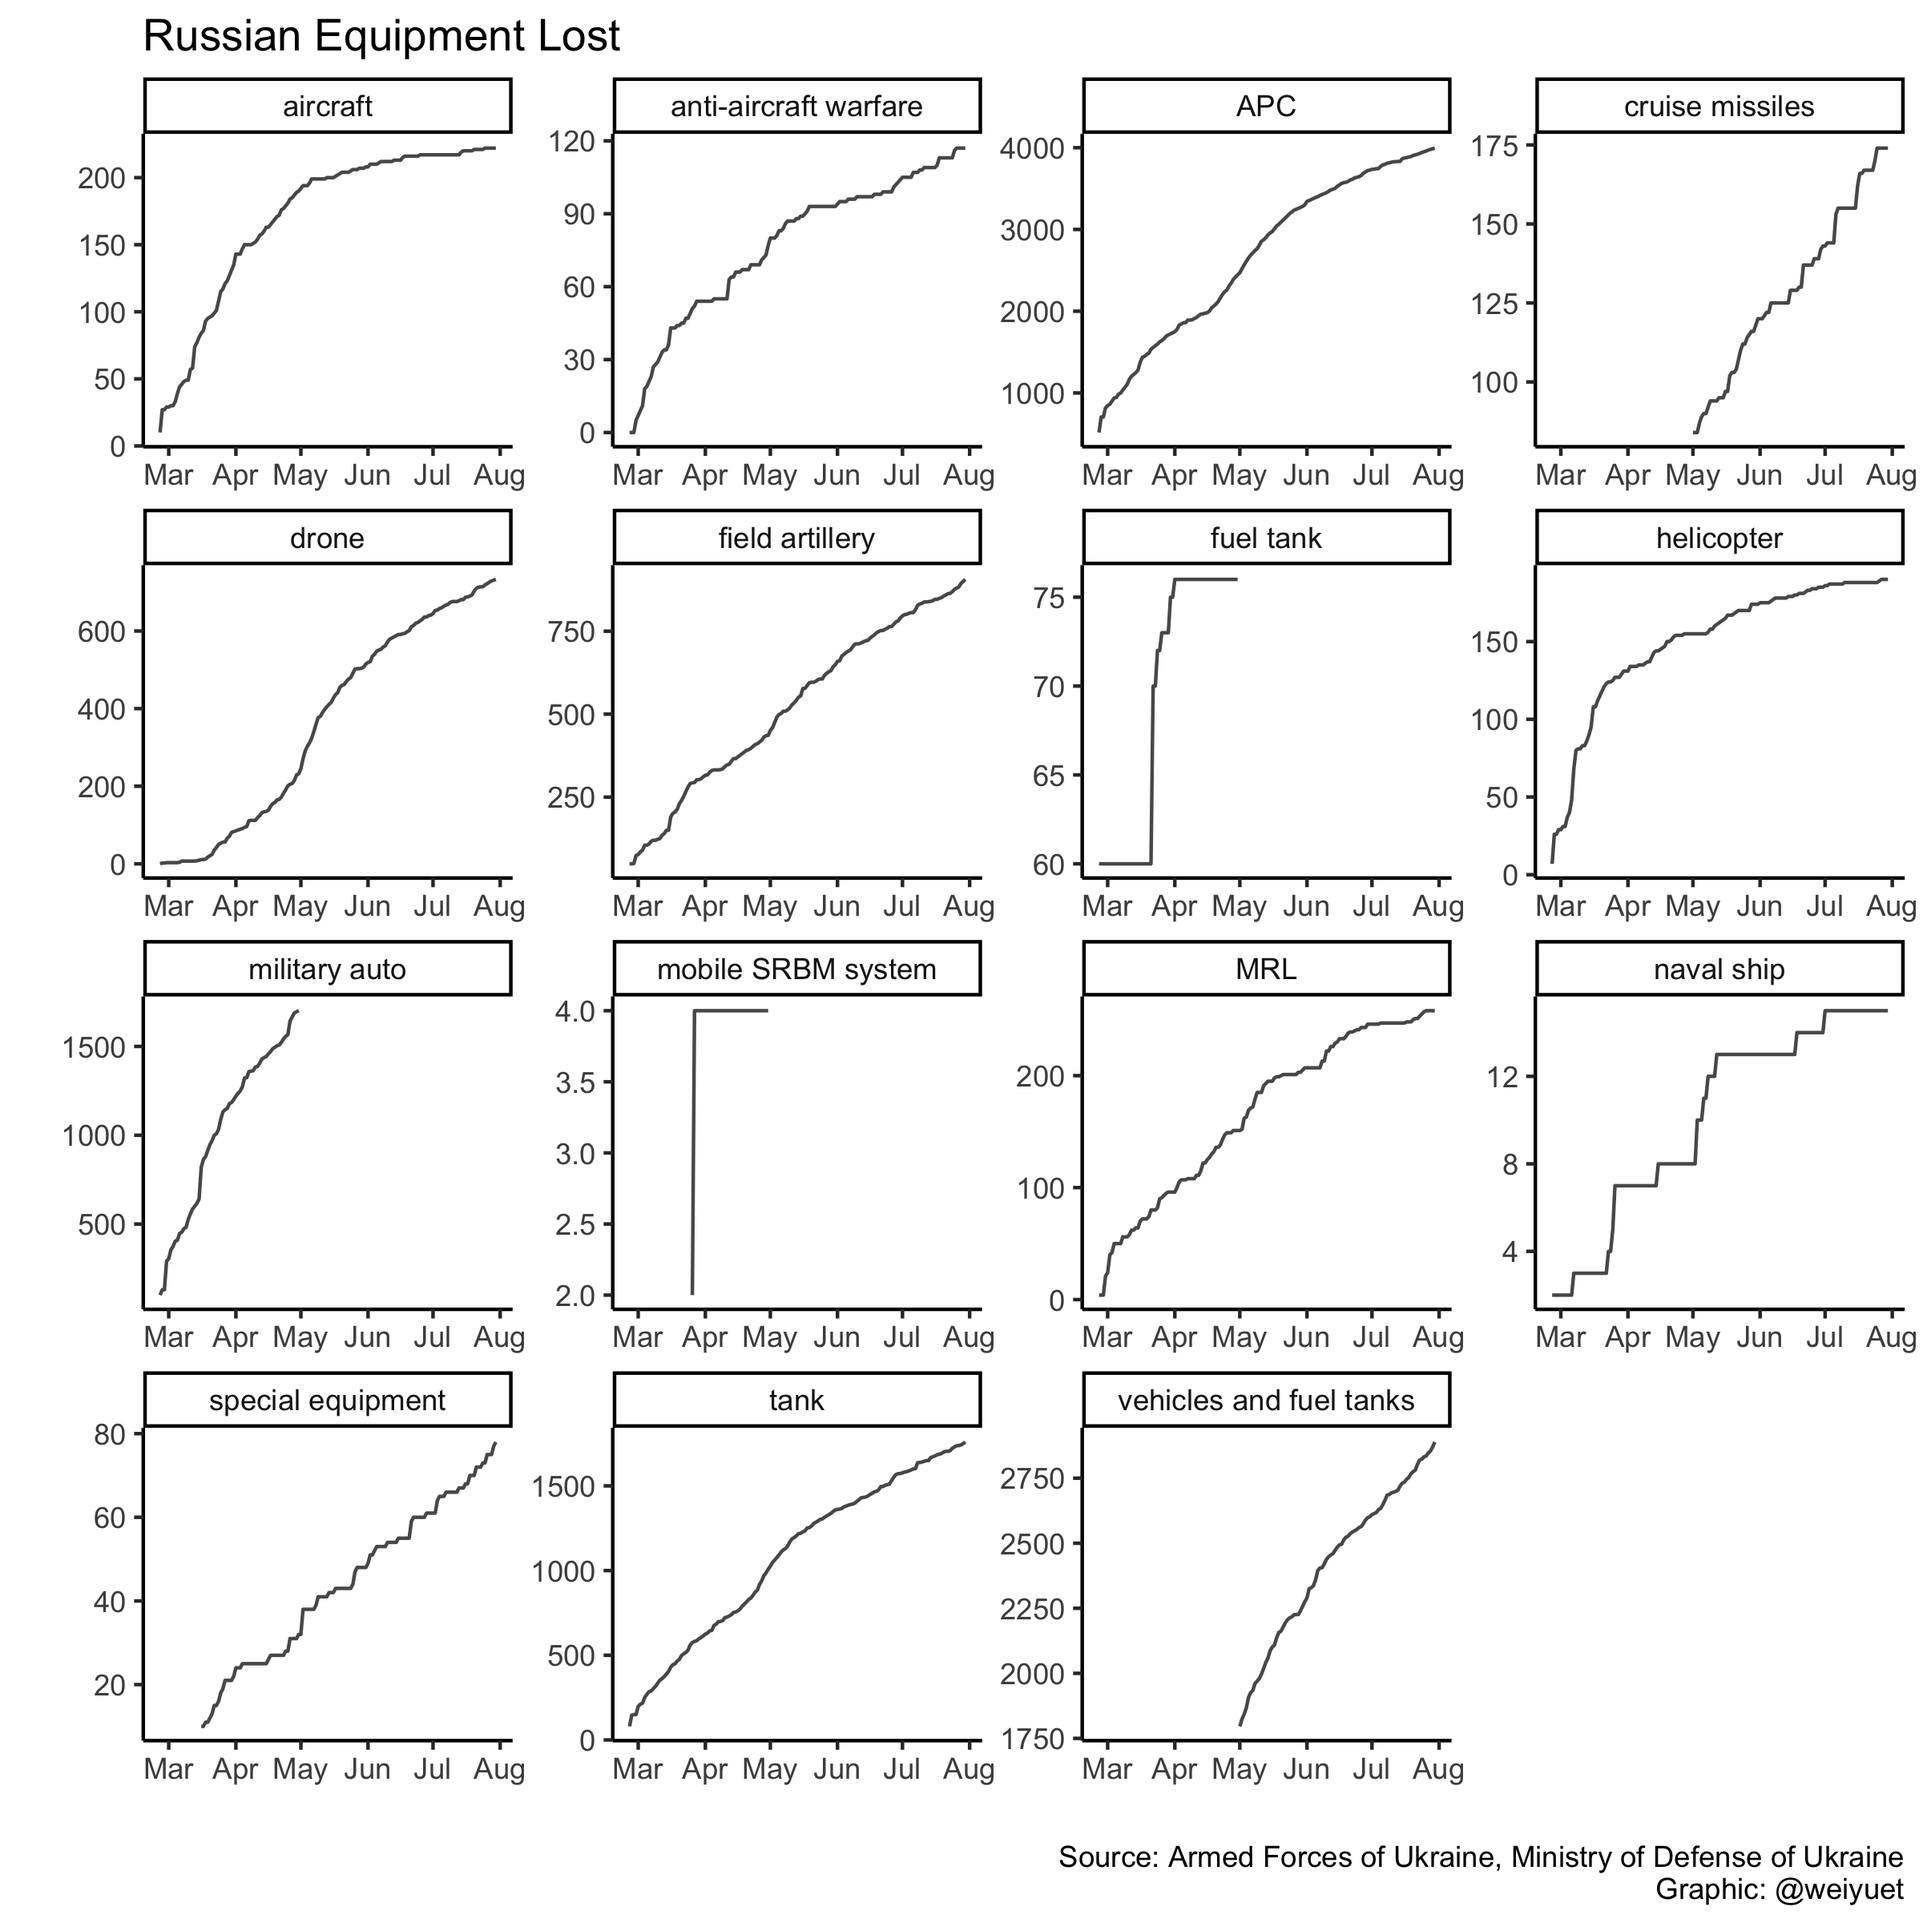
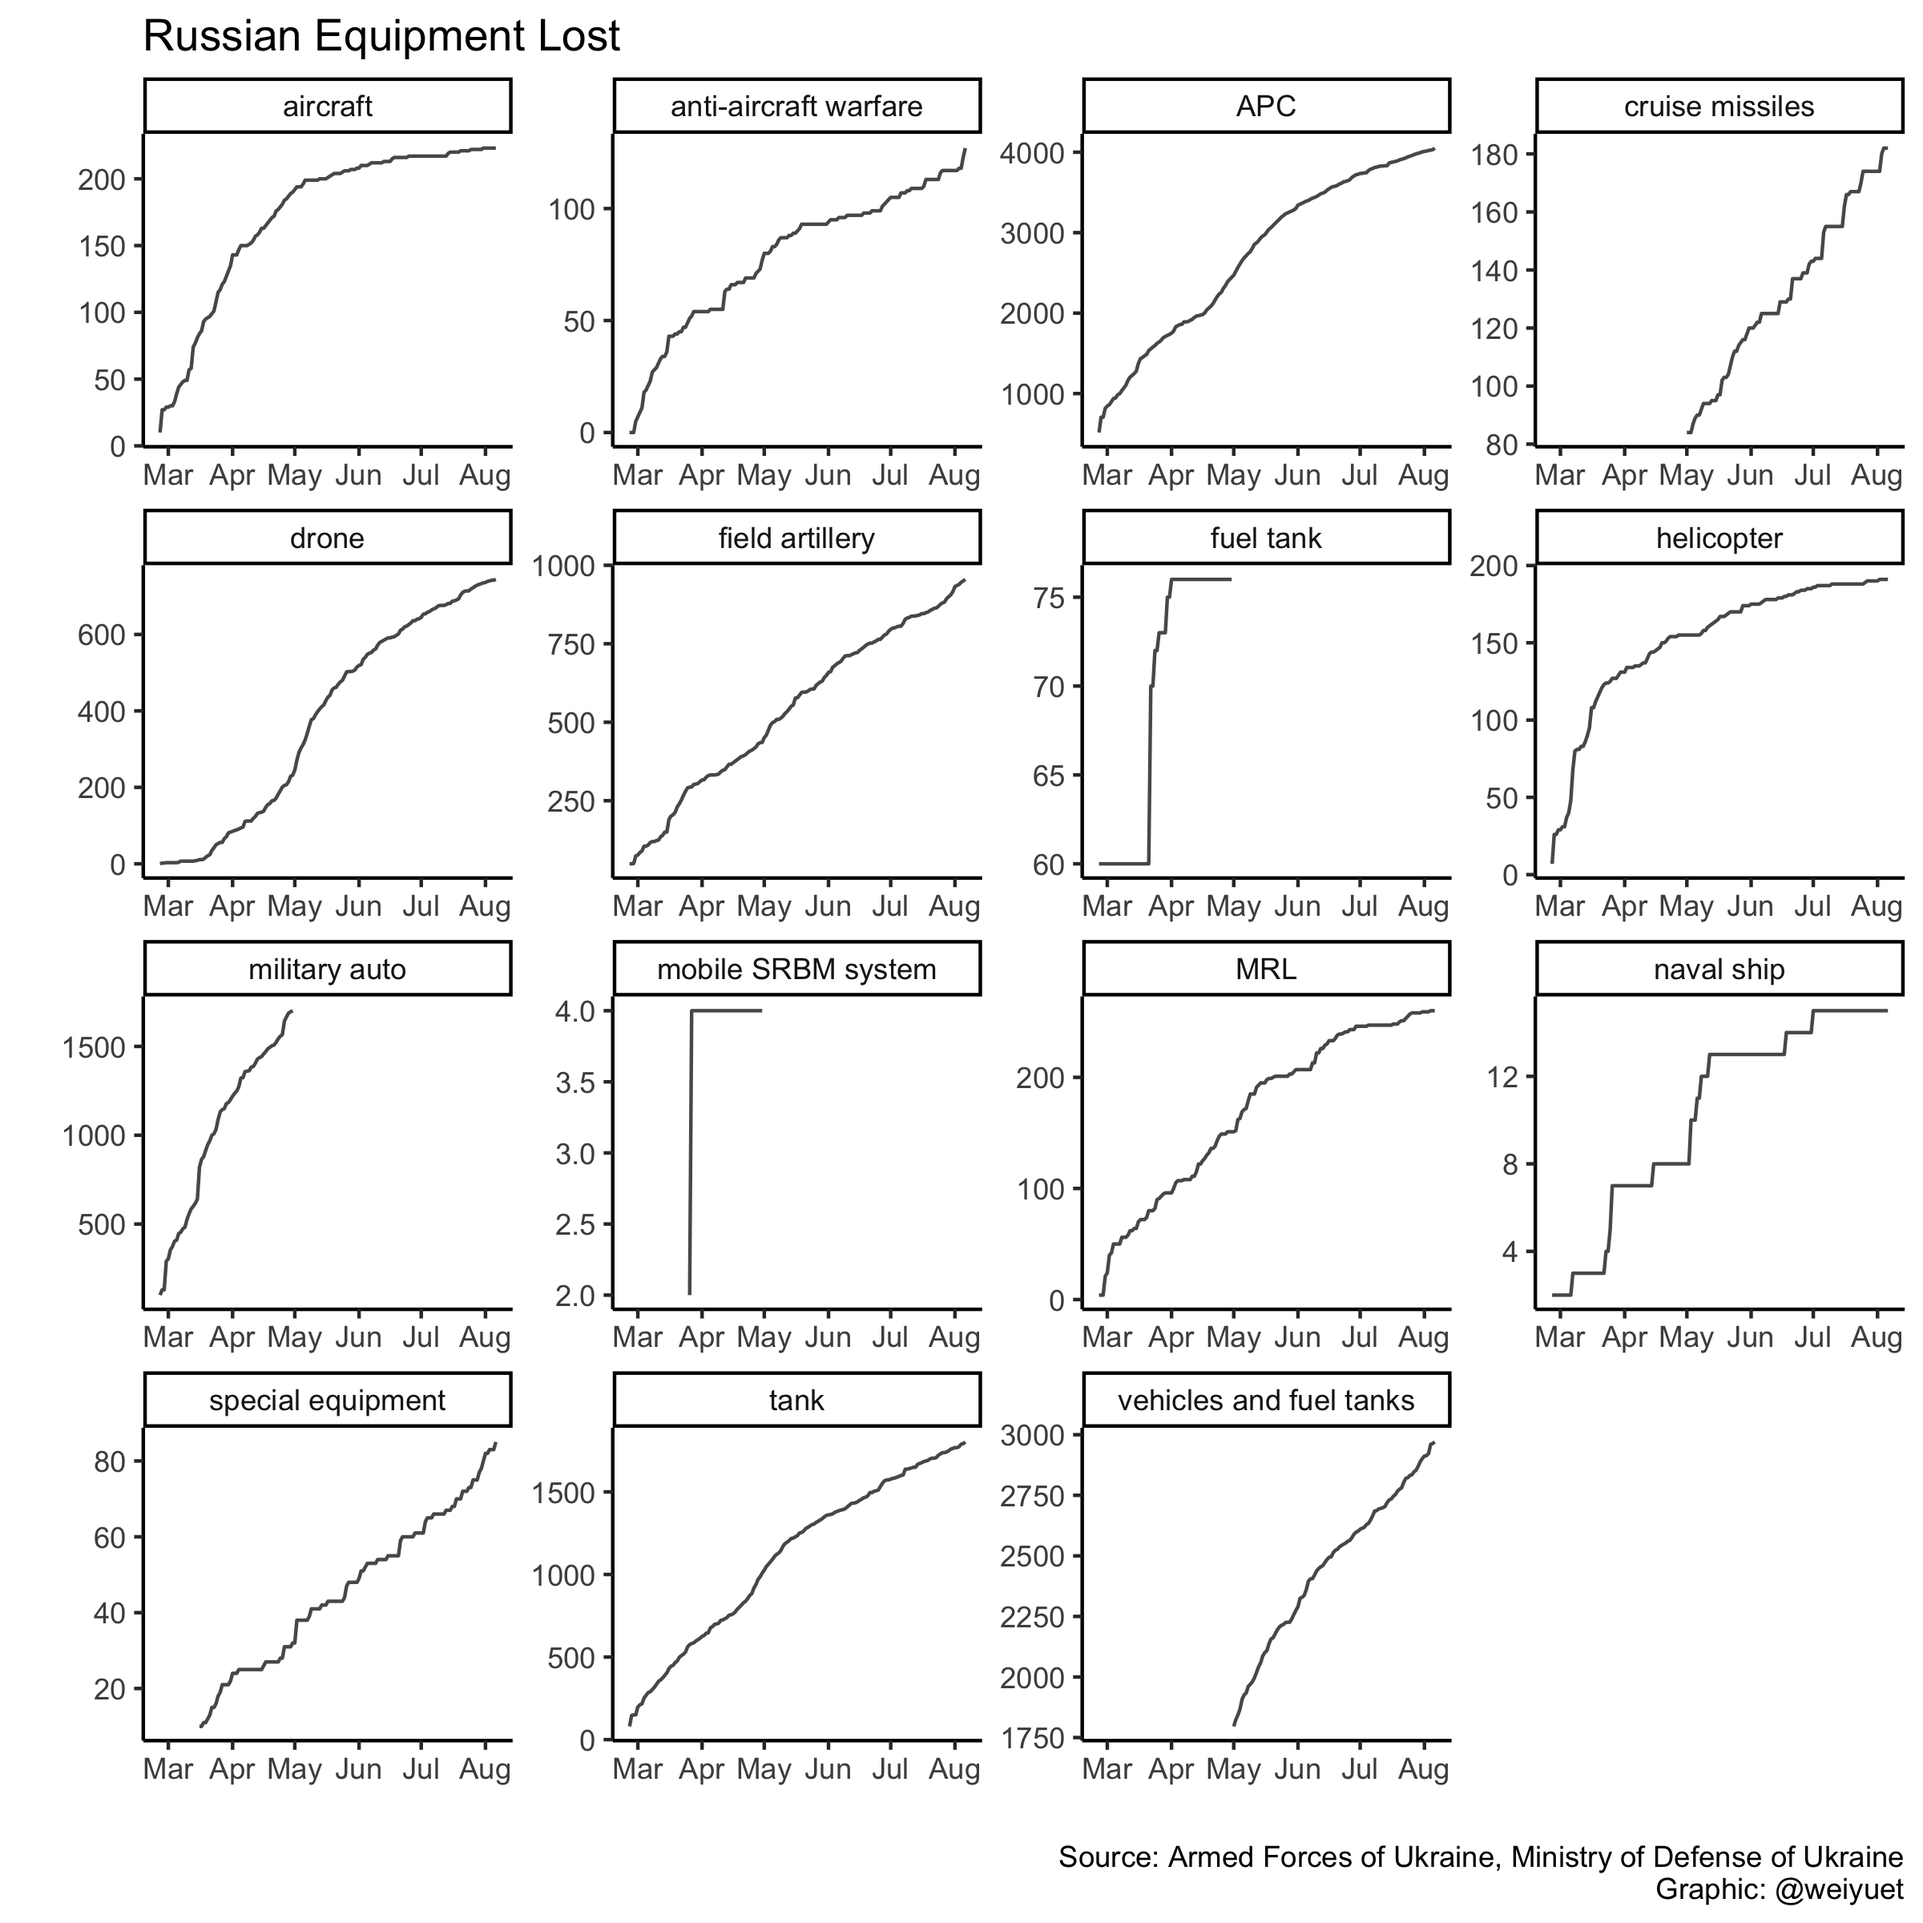
Updated 6 Aug

diff --git a/code/russian-casualties.py b/code/russian-casualties.py
@@ -1,0 +1,5 @@
+# Setup
+import numpy as np
+import pandas as pd
+
+import plotly
